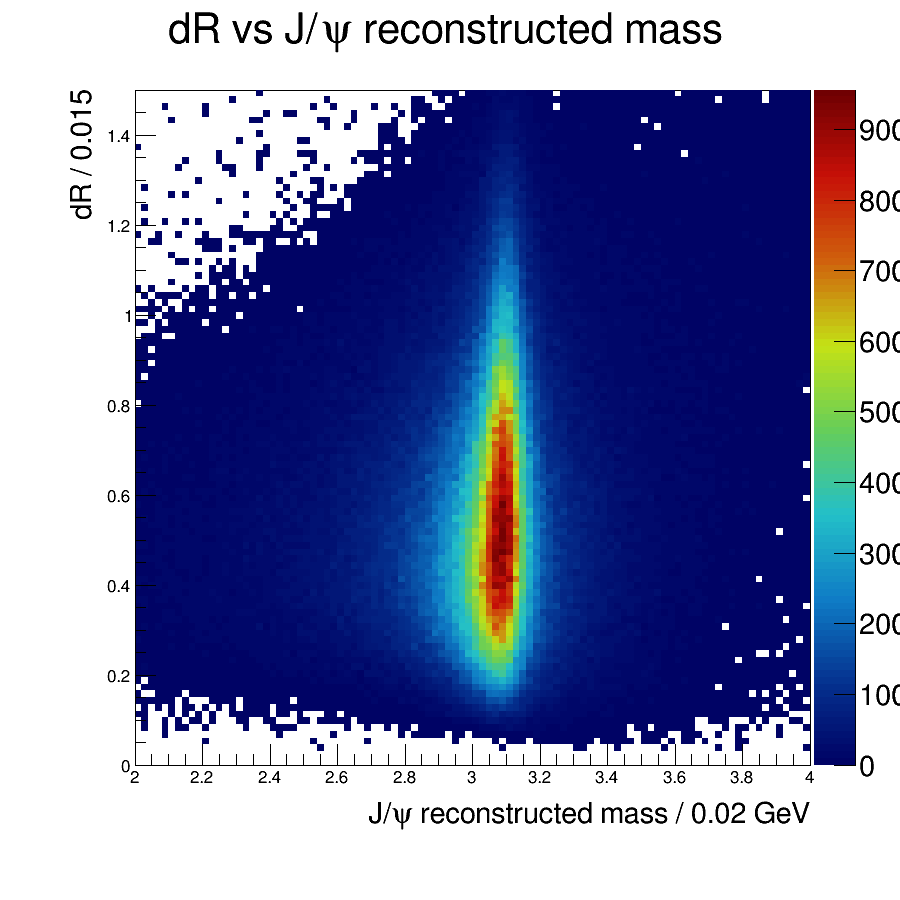
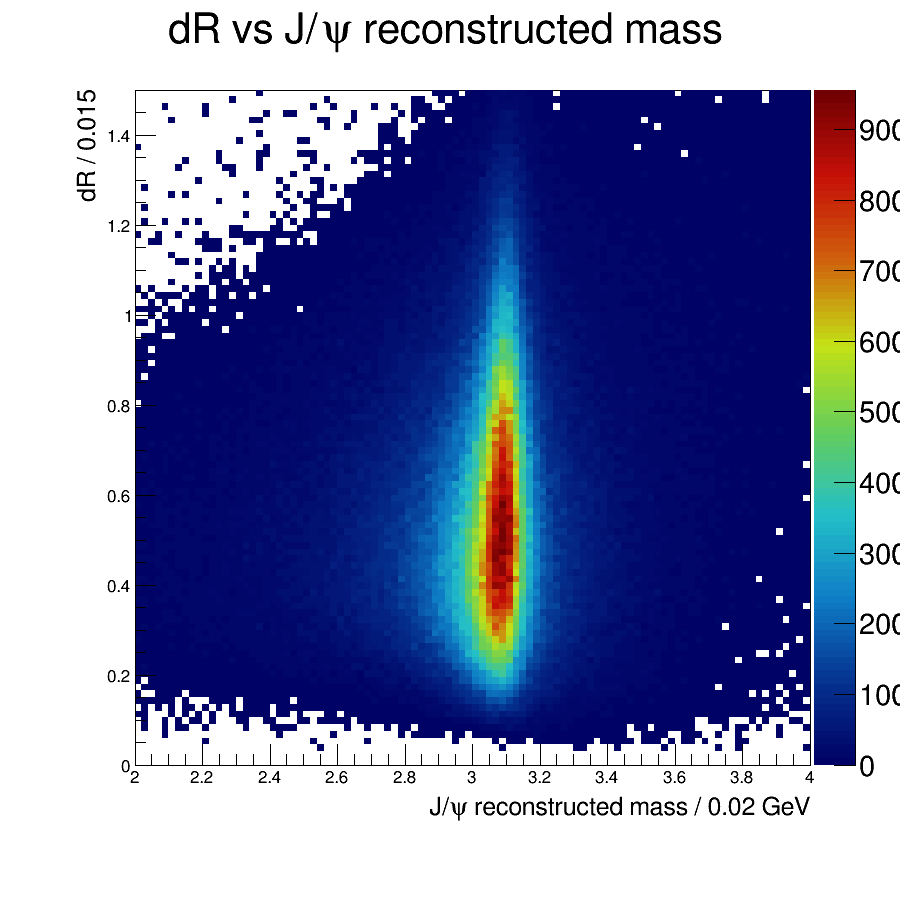
Kolokvij1_zad2

Changed region(s): [[0.4044, 0.8711, 0.9022, 0.9333], [0.0622, 0.0933, 0.1244, 0.2489]]

diff --git a/Kolokvij_1/Zadatak_2/Analyzer.cpp b/Kolokvij_1/Zadatak_2/Analyzer.cpp
@@ -63,9 +63,11 @@ void Analyzer::Plot2DHistogram(){
 	hist -> SetContour (100);
 	hist -> GetXaxis () -> SetTitle ("J/#psi reconstructed mass / 0.02 GeV");
 	hist -> GetXaxis () -> SetLabelSize (0.02);
+	hist -> GetXaxis () -> SetTitleSize (0.03);
 	hist -> GetYaxis () -> SetTitle ("dR / 0.015");
         hist -> GetYaxis () -> SetLabelSize (0.02);
-	
+	hist -> GetYaxis () -> SetTitleSize (0.03);	
+
 	canvas -> Print ("zad2.pdf");
 	canvas -> Print ("zad2.png");
 	canvas -> Print ("zad2.root");
